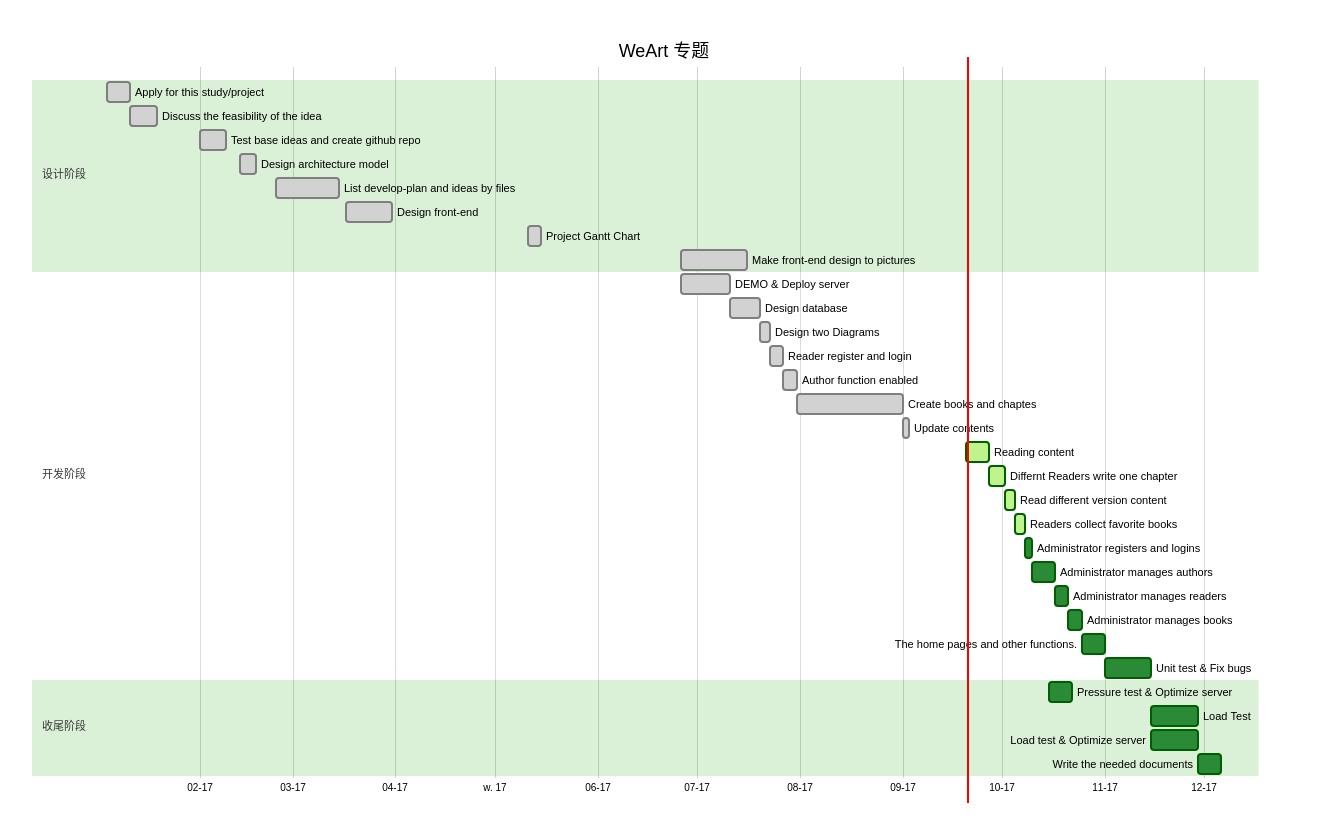
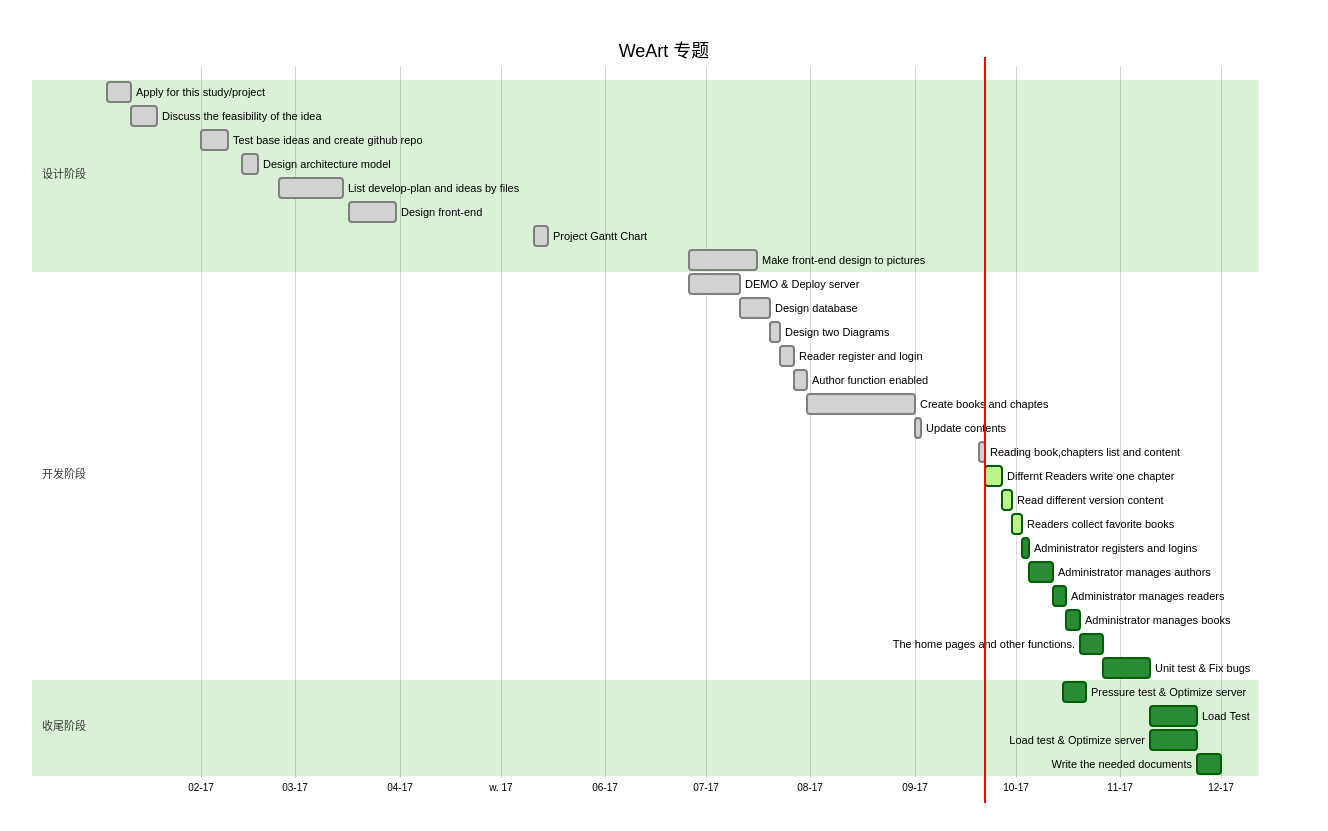
modify the progress and gantt.

diff --git a/doc/progress.md b/doc/progress.md
@@ -24,10 +24,10 @@ ModifyTime :  2017-07-20
 + [x] 2. ~~Design Use case diagram and Class diagram.(2017-07-22)~~
 + [x] 3. ~~Reader can login and register.(2017-07-26)~~
 + [x] 4. ~~Author can be enabled.(2017-07-30)~~
-+ [x] 5. Author can create a novel and chapters.(2017-09-16)
-+ [x] 6. Author can update the novel content.(2017-09-17)
-+ [ ] 7. Reader can read books and chapters.(2017-09-24)
-+ [ ] 8. Differnt Readers can write one chapter and send different version for the same story.(2017-09-30)
++ [x] 5. ~~Author can create a novel and chapters.(2017-09-16)~~
++ [x] 6. ~~Author can update the novel content.(2017-09-17)~~
++ [x] 7. ~~Reader can read book,chapters list and content.(2017-09-21)~~
++ [ ] 8. Differnt Readers can write one chapter and send different version for the same story.(2017-09-26)
 + [ ] 9. Reader can read different version content.(2017-10-05)
 + [ ] 10. Reader can collect their favorite books.(2017-10-15)
 + [ ] 11. Administrator registers and logins.(2017-10-25)
